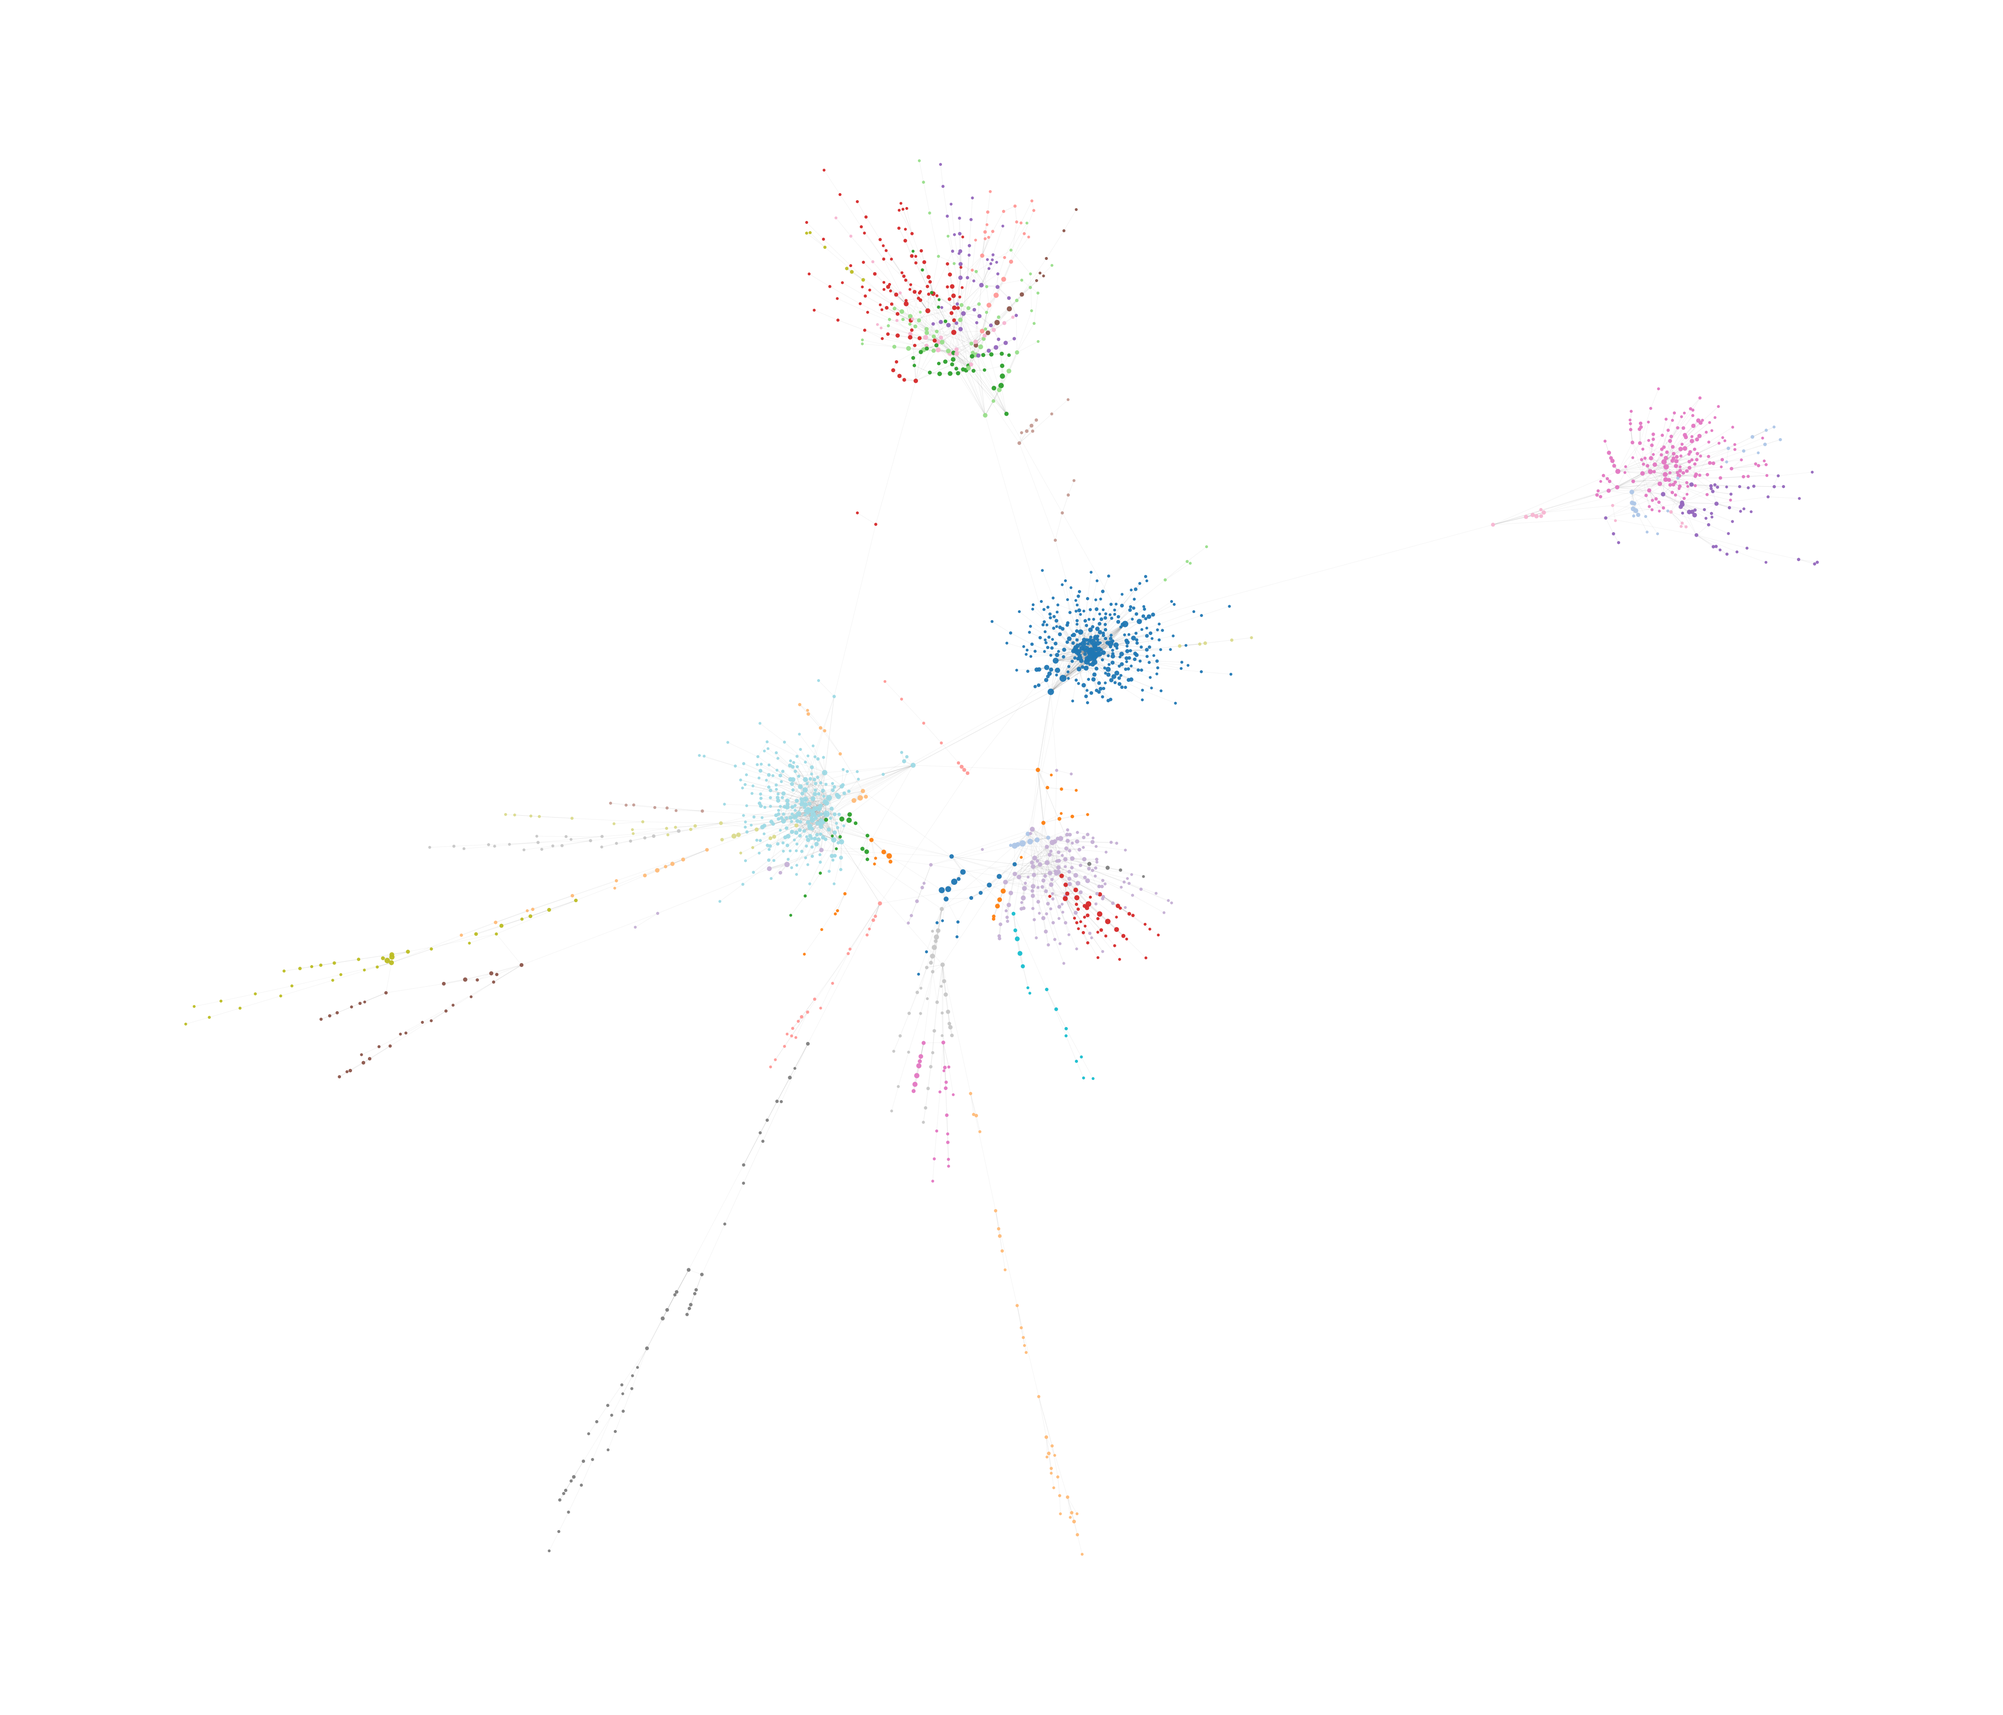
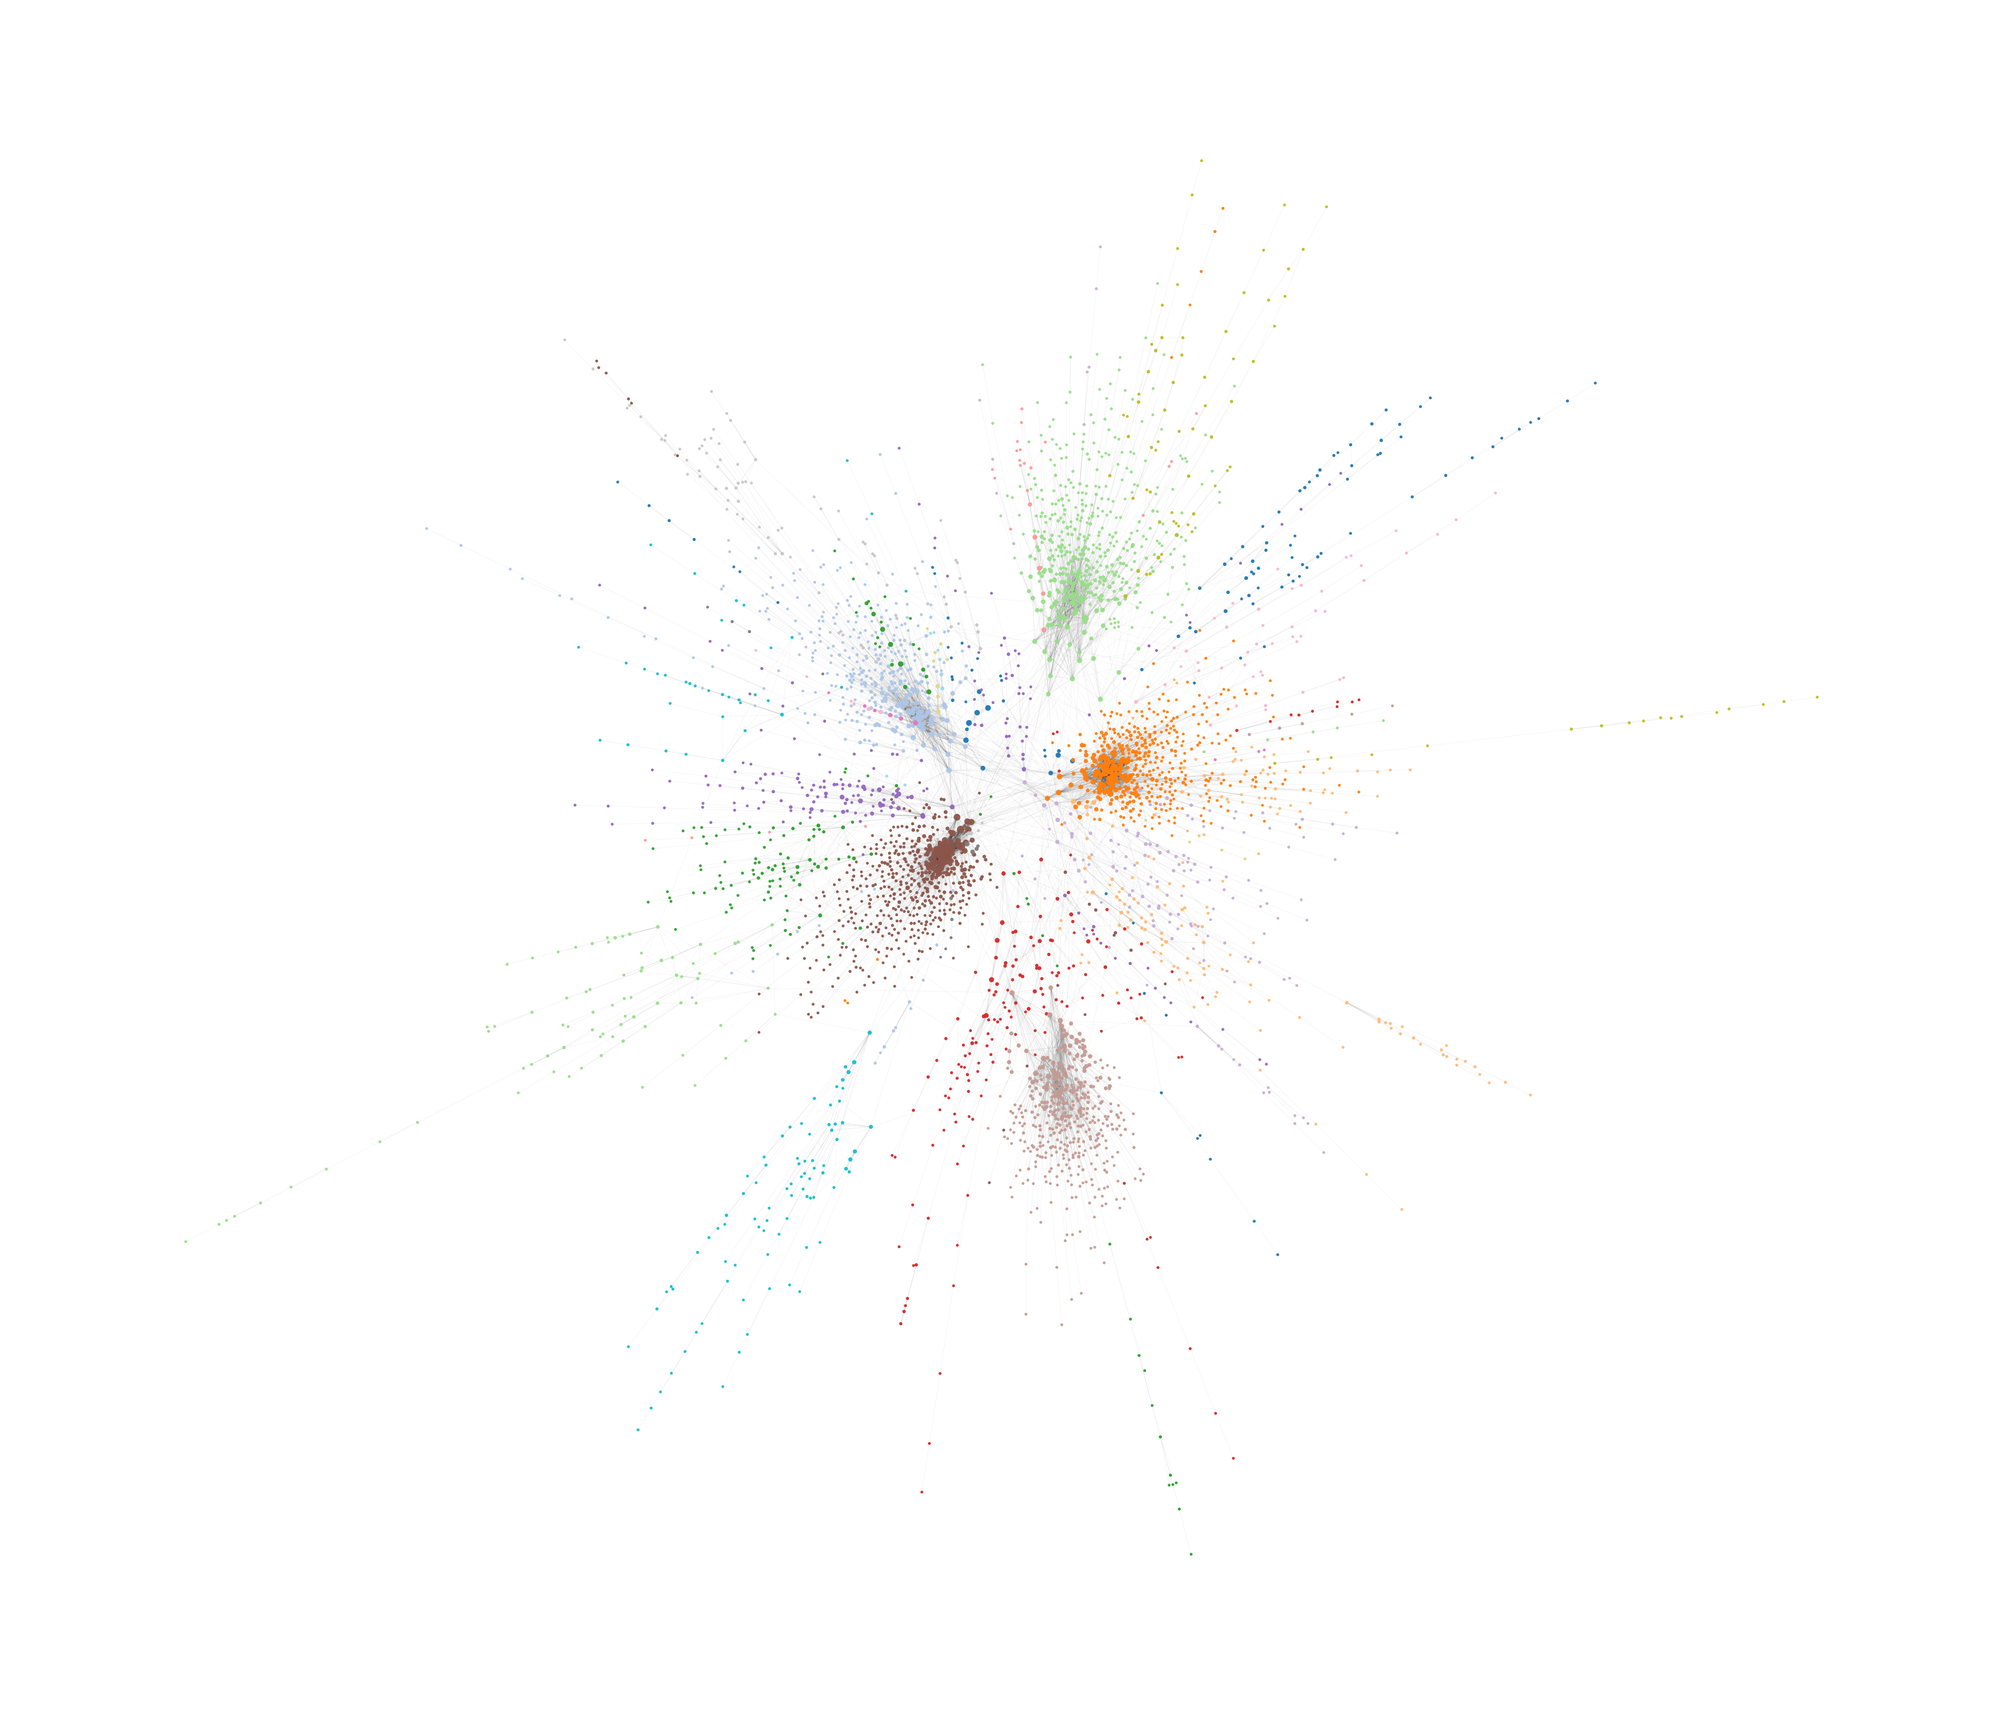
9.19

Changed region(s): [[0.3741, 0.2798, 0.6235, 0.684], [0.4365, 0.1555, 0.4988, 0.2176], [0.8106, 0.2487, 0.8729, 0.3109]]

diff --git a/club_trasnfer_graph_2.py b/club_trasnfer_graph_2.py
@@ -1,0 +1,328 @@
+'''
+使社区内部更紧凑，社区间更分离
+
+'''
+import argparse
+import math
+import unicodedata
+from pathlib import Path
+import numpy as np
+import pandas as pd
+import networkx as nx
+import matplotlib.pyplot as plt
+from tqdm import tqdm
+from community import community_louvain
+import matplotlib.cm as cm
+
+
+# --------------------------- 参数 ---------------------------
+def parse_args():
+    p = argparse.ArgumentParser()
+    p.add_argument("--csv", required=True)
+    p.add_argument("--out_dir", default="out_graph")
+    p.add_argument("--year_min", type=int, default=None)
+    p.add_argument("--year_max", type=int, default=None)
+    p.add_argument("--remove_without_club", action="store_true")
+    p.add_argument("--weight_mode", choices=["events", "unique"], default="events")
+    p.add_argument("--top_k", type=int, default=40)
+    p.add_argument("--edge_quantile", type=float, default=0.60)
+    p.add_argument("--label_top_n", type=int, default=15)
+    p.add_argument("--min_edge_weight", type=int, default=1, help="聚合后保留的最小边权（1=不过滤）")
+    p.add_argument("--pretty", action="store_true", help="输出论文风格 PNG")
+    p.add_argument("--pretty_max_nodes", type=int, default=20000)
+    p.add_argument("--pretty_edge_alpha", type=float, default=0.05)
+    p.add_argument("--pretty_label_top_n", type=int, default=60)
+    return p.parse_args()
+
+
+# --------------------------- 读文件/识别列 ---------------------------
+def read_csv(csv_path: Path) -> pd.DataFrame:
+    try:
+        return pd.read_csv(csv_path, low_memory=False)
+    except UnicodeDecodeError:
+        return pd.read_csv(csv_path, low_memory=False, encoding="latin1")
+
+
+def normalize_col(col: str) -> str:
+    col = unicodedata.normalize("NFKC", str(col)).strip().lower()
+    return "".join(ch if ch.isalnum() else "_" for ch in col)
+
+
+def pick_col(cols_norm_map, candidates):
+    for raw, norm in cols_norm_map.items():
+        for cand in candidates:
+            if norm == cand or norm.endswith("_" + cand) or cand in norm:
+                return raw
+    return None
+
+
+def detect_columns(df: pd.DataFrame):
+    cols_norm = {c: normalize_col(c) for c in df.columns}
+    from_candidates = ["from_club_name", "from_club", "club_from", "fromclub", "from_club_id"]
+    to_candidates = ["to_club_name", "to_club", "club_to", "toclub", "to_club_id"]
+    id_candidates = ["player_id", "tm_player_id", "sofifa_id", "person_id", "player"]
+    name_candidates = ["player_name", "name", "player_full_name"]
+    date_candidates = ["year", "transfer_date", "date", "transfer_season", "season"]
+
+    col_from = pick_col(cols_norm, from_candidates)
+    col_to = pick_col(cols_norm, to_candidates)
+    col_pid = pick_col(cols_norm, id_candidates) or pick_col(cols_norm, name_candidates)
+    col_date = pick_col(cols_norm, date_candidates)
+
+    if "player_id" in df.columns: col_pid = "player_id"
+    if "from_club_name" in df.columns: col_from = "from_club_name"
+    if "to_club_name" in df.columns: col_to = "to_club_name"
+    return dict(from_col=col_from, to_col=col_to, player_key_col=col_pid, date_col=col_date)
+
+
+# --------------------------- 清洗/聚合 ---------------------------
+def filter_by_time(df: pd.DataFrame, col_date: str, y0: int | None, y1: int | None) -> pd.DataFrame:
+    if y0 is None and y1 is None: return df
+    df2 = df.copy()
+    if "year" in df2.columns:
+        df2["__year__"] = pd.to_numeric(df2["year"], errors="coerce")
+    elif col_date and col_date in df2.columns:
+        dt = pd.to_datetime(df2[col_date], errors="coerce")
+        df2["__year__"] = dt.dt.year
+    else:
+        df2["__year__"] = np.nan
+    if y0 is not None: df2 = df2[df2["__year__"] >= y0]
+    if y1 is not None: df2 = df2[df2["__year__"] <= y1]
+    return df2.drop(columns=["__year__"])
+
+
+def build_work_df(df: pd.DataFrame, cols: dict, remove_without_club: bool) -> pd.DataFrame:
+    work = df[[cols["from_col"], cols["to_col"], cols["player_key_col"]]].copy()
+    work.columns = ["from_club", "to_club", "player_key"]
+    work = work.dropna()
+    work = work[(work["from_club"].astype(str).str.len() > 0) & (work["to_club"].astype(str).str.len() > 0)]
+    work = work[work["from_club"] != work["to_club"]]
+    if remove_without_club:
+        work = work[(work["from_club"] != "Without Club") & (work["to_club"] != "Without Club")]
+    return work
+
+
+def aggregate_edges(work: pd.DataFrame, weight_mode: str) -> pd.DataFrame:
+    agg_weight = ("player_key", "size") if weight_mode == "events" else ("player_key", pd.Series.nunique)
+    edge_counts = (
+        work.groupby(["from_club", "to_club"])
+            .agg(weight=agg_weight, unique_players=("player_key", pd.Series.nunique))
+            .reset_index()
+            .sort_values("weight", ascending=False)
+    )
+    return edge_counts
+
+
+def build_graph(edge_counts: pd.DataFrame) -> tuple[nx.DiGraph, dict, dict, dict]:
+    G = nx.DiGraph()
+    for _, r in tqdm(edge_counts.iterrows(), total=len(edge_counts), desc="Building graph"):
+        G.add_edge(r["from_club"], r["to_club"],
+                   weight=int(r["weight"]), unique_players=int(r["unique_players"]))
+    out_strength = dict(G.out_degree(weight="weight"))
+    in_strength = dict(G.in_degree(weight="weight"))
+    total_strength = {n: out_strength.get(n, 0) + in_strength.get(n, 0) for n in G.nodes()}
+    return G, out_strength, in_strength, total_strength
+
+
+def export_artifacts(edge_counts: pd.DataFrame, G: nx.DiGraph, out_dir: Path):
+    out_dir.mkdir(parents=True, exist_ok=True)
+    edges_csv = out_dir / "global_transfers_edges.csv"
+    gexf_path = out_dir / "club_transfers_graph.gexf"
+    edge_counts.to_csv(edges_csv, index=False)
+    nx.write_gexf(G, gexf_path)
+    return edges_csv, gexf_path
+
+
+
+
+# --------------------------- 论文风格可视化（spring_layout） ---------------------------
+# def visualize_pretty(
+#     G: nx.DiGraph,
+#     out_png_path: str,
+#     max_nodes: int = 20000,
+#     draw_edges: bool = False,
+#     edge_alpha: float = 0.06,
+#     node_min: int = 2,
+#     node_max: int = 16,
+#     label_top_n: int = 60,
+#     seed: int = 42,
+# ):
+#     import random
+#     random.seed(seed)
+#     np.random.seed(seed)
+
+#     if G.number_of_nodes() == 0:
+#         print("Empty graph, skip pretty drawing.")
+#         return
+
+#     # Louvain 社区检测
+#     undirected = G.to_undirected()
+#     partition = community_louvain.best_partition(undirected, random_state=seed, weight="weight")
+
+#     # 使用 spring 布局，增加 k 值
+#     k = 0.12 / np.sqrt(max(1, G.number_of_nodes()))
+#     pos = nx.spring_layout(G, seed=seed, k=k, iterations=500, weight="weight")
+
+#     # 给每个社区不同的颜色
+#     cmap = cm.get_cmap("tab20")
+#     node_colors = [cmap(partition[node] % cmap.N) for node in G.nodes()]
+
+#     # 计算节点大小
+#     strength = dict(G.degree(weight="weight"))
+#     s_vals = np.array([strength.get(n, 0) for n in G.nodes()], dtype=float)
+#     s_min, s_max = float(np.min(s_vals)), float(np.max(s_vals))
+#     if s_max > s_min:
+#         sizes = node_min + (node_max - node_min) * (s_vals - s_min) / (s_max - s_min)
+#     else:
+#         sizes = np.full(len(s_vals), (node_min + node_max) / 2.0)
+
+#     plt.figure(figsize=(14, 12))
+#     # 绘制每个社区
+#     for community_id in set(partition.values()):
+#         # 获取该社区的节点
+#         community_nodes = [node for node, comm in partition.items() if comm == community_id]
+#         subgraph = G.subgraph(community_nodes)
+        
+#         # 计算子图的布局
+#         subgraph_pos = nx.spring_layout(subgraph, seed=seed, k=k, iterations=500, weight="weight")
+        
+#         # 绘制该社区的节点
+#         nx.draw_networkx_nodes(subgraph, subgraph_pos, node_size=sizes, node_color=node_colors, alpha=0.9)
+
+#         # 绘制社区之间的边
+#         if draw_edges and len(subgraph.edges()) > 0:
+#             edge_weights = [d.get("weight", 1) for _, _, d in subgraph.edges(data=True)]
+#             w_min, w_max = min(edge_weights), max(edge_weights)
+#             denom = (w_max - w_min) if (w_max - w_min) > 0 else 1.0
+#             ew = [0.2 + 1.2 * (d.get("weight", 1) - w_min) / denom for _, _, d in subgraph.edges(data=True)]
+#             nx.draw_networkx_edges(subgraph, subgraph_pos, width=ew, alpha=edge_alpha)
+
+#     plt.axis("off")
+#     plt.tight_layout()
+#     plt.savefig(out_png_path, dpi=300, bbox_inches="tight")
+#     plt.close()
+#     print(f"Saved pretty visualization: {out_png_path}")
+
+
+def visualize_pretty(
+    G: nx.DiGraph,
+    out_png_path: str,
+    max_nodes: int = 20000,
+    draw_edges: bool = True,
+    edge_alpha: float = 0.06,
+    node_min: int = 2,
+    node_max: int = 16,
+    label_top_n: int = 60,
+    seed: int = 42,
+):
+    import random, matplotlib
+    random.seed(seed); np.random.seed(seed)
+
+    if G.number_of_nodes() == 0:
+        print("Empty graph, skip pretty drawing.")
+        return
+
+    # 取最大弱连通分量，避免孤立点影响布局
+    largest_cc = max(nx.weakly_connected_components(G), key=len)
+    H = G.subgraph(largest_cc).copy()
+
+    if H.number_of_nodes() > max_nodes:
+        strength_all = dict(H.degree(weight="weight"))
+        keep = [n for n,_ in sorted(strength_all.items(), key=lambda x: x[1], reverse=True)[:max_nodes]]
+        H = H.subgraph(keep).copy()
+
+    # 社区划分（在 H 上）
+    undirected = H.to_undirected()
+    part = community_louvain.best_partition(undirected, random_state=seed, weight="weight")
+
+    # 全图只做一次 spring 布局，然后各社区复用它的坐标子集
+    k = 0.05 / np.sqrt(max(1, H.number_of_nodes()))  # 调整 k 值来增加吸引力，减少分散
+    pos = nx.spring_layout(H, seed=seed, k=k, iterations=500, weight="weight", scale=1.0)
+
+    # 节点强度 -> 节点尺寸（映射为 [node_min, node_max]）
+    strength = dict(H.degree(weight="weight"))
+    nodes_list = list(H.nodes())
+    s_vals = np.array([strength.get(n, 0) for n in nodes_list], dtype=float)
+    s_min, s_max = float(np.min(s_vals)), float(np.max(s_vals))
+    if s_max > s_min:
+        sizes_all = node_min + (node_max - node_min) * (s_vals - s_min) / (s_max - s_min)
+    else:
+        sizes_all = np.full(len(s_vals), (node_min + node_max) / 2.0)
+    size_map = {n: float(sz) for n, sz in zip(nodes_list, sizes_all)}
+
+    # 颜色映射：每个社区一个颜色
+    cmap = matplotlib.colormaps.get_cmap("tab20")
+    comm_ids = sorted(set(part.values()))
+    color_map_comm = {c: cmap(i % cmap.N) for i, c in enumerate(comm_ids)}
+
+    plt.figure(figsize=(14, 12))
+
+    # 先画边（可选）：画全图的边以保持整体连通性观感
+    if draw_edges and H.number_of_edges() > 0:
+        w_all = [d.get("weight", 1) for _,_,d in H.edges(data=True)]
+        w_min, w_max = min(w_all), max(w_all)
+        denom = (w_max - w_min) if (w_max - w_min) > 0 else 1.0
+        ew = [0.2 + 1.2 * (d.get("weight", 1) - w_min) / denom for _,_,d in H.edges(data=True)]
+        nx.draw_networkx_edges(H, pos, arrows=False, width=ew, alpha=edge_alpha)
+
+    # 再按社区分批画节点（关键：node_size / node_color 长度与该社区节点数严格一致）
+    for cid in comm_ids:
+        comm_nodes = [n for n, c in part.items() if c == cid]
+        # 该社区使用全图布局的子集坐标
+        pos_sub = {n: pos[n] for n in comm_nodes}
+        sizes_sub = [size_map[n] for n in comm_nodes]
+        colors_sub = [color_map_comm[cid] for _ in comm_nodes]
+
+        nx.draw_networkx_nodes(
+            H, pos_sub,
+            nodelist=comm_nodes,
+            node_size=sizes_sub,
+            node_color=colors_sub,
+            linewidths=0,
+            alpha=0.95
+        )
+
+    plt.axis("off"); plt.tight_layout()
+    plt.savefig(out_png_path, dpi=300, bbox_inches="tight")
+    plt.close()
+    print(f"[Pretty] Saved: {out_png_path}")
+
+
+
+
+# --------------------------- 主流程 ---------------------------
+def main():
+    args = parse_args()
+    csv_path = Path(args.csv)
+    out_dir = Path(args.out_dir)
+    assert csv_path.exists(), f"找不到文件：{csv_path}"
+
+    df = read_csv(csv_path)
+    cols = detect_columns(df)
+    df = filter_by_time(df, cols["date_col"], args.year_min, args.year_max)
+    work = build_work_df(df, cols, args.remove_without_club)
+
+    edge_counts = aggregate_edges(work, args.weight_mode)
+    if args.min_edge_weight > 1:
+        edge_counts = edge_counts[edge_counts["weight"] >= args.min_edge_weight]
+
+    G, out_s, in_s, total_s = build_graph(edge_counts)
+    edges_csv, gexf_path = export_artifacts(edge_counts, G, out_dir)
+
+    if args.pretty:
+        visualize_pretty(
+            G, str(out_dir / "club_transfers_pretty.png"),
+            max_nodes=args.pretty_max_nodes,
+            edge_alpha=args.pretty_edge_alpha,
+            label_top_n=args.pretty_label_top_n,
+            node_min=2, node_max=16, seed=42
+        )
+
+    print(f"Edges CSV: {edges_csv}")
+    print(f"GEXF:      {gexf_path}")
+    if args.pretty:
+        print(f"Pretty PNG:{out_dir / 'club_transfers_pretty.png'}")
+
+
+if __name__ == "__main__":
+    main()

diff --git a/club_transfer_graph.py b/club_transfer_graph.py
@@ -127,7 +127,7 @@ def visualize_pretty(
     G: nx.DiGraph,
     out_png_path: str,
     max_nodes: int = 20000,
-    draw_edges: bool = True,
+    draw_edges: bool = False,    # 是否绘制边
     edge_alpha: float = 0.06,
     node_min: int = 2,
     node_max: int = 16,
